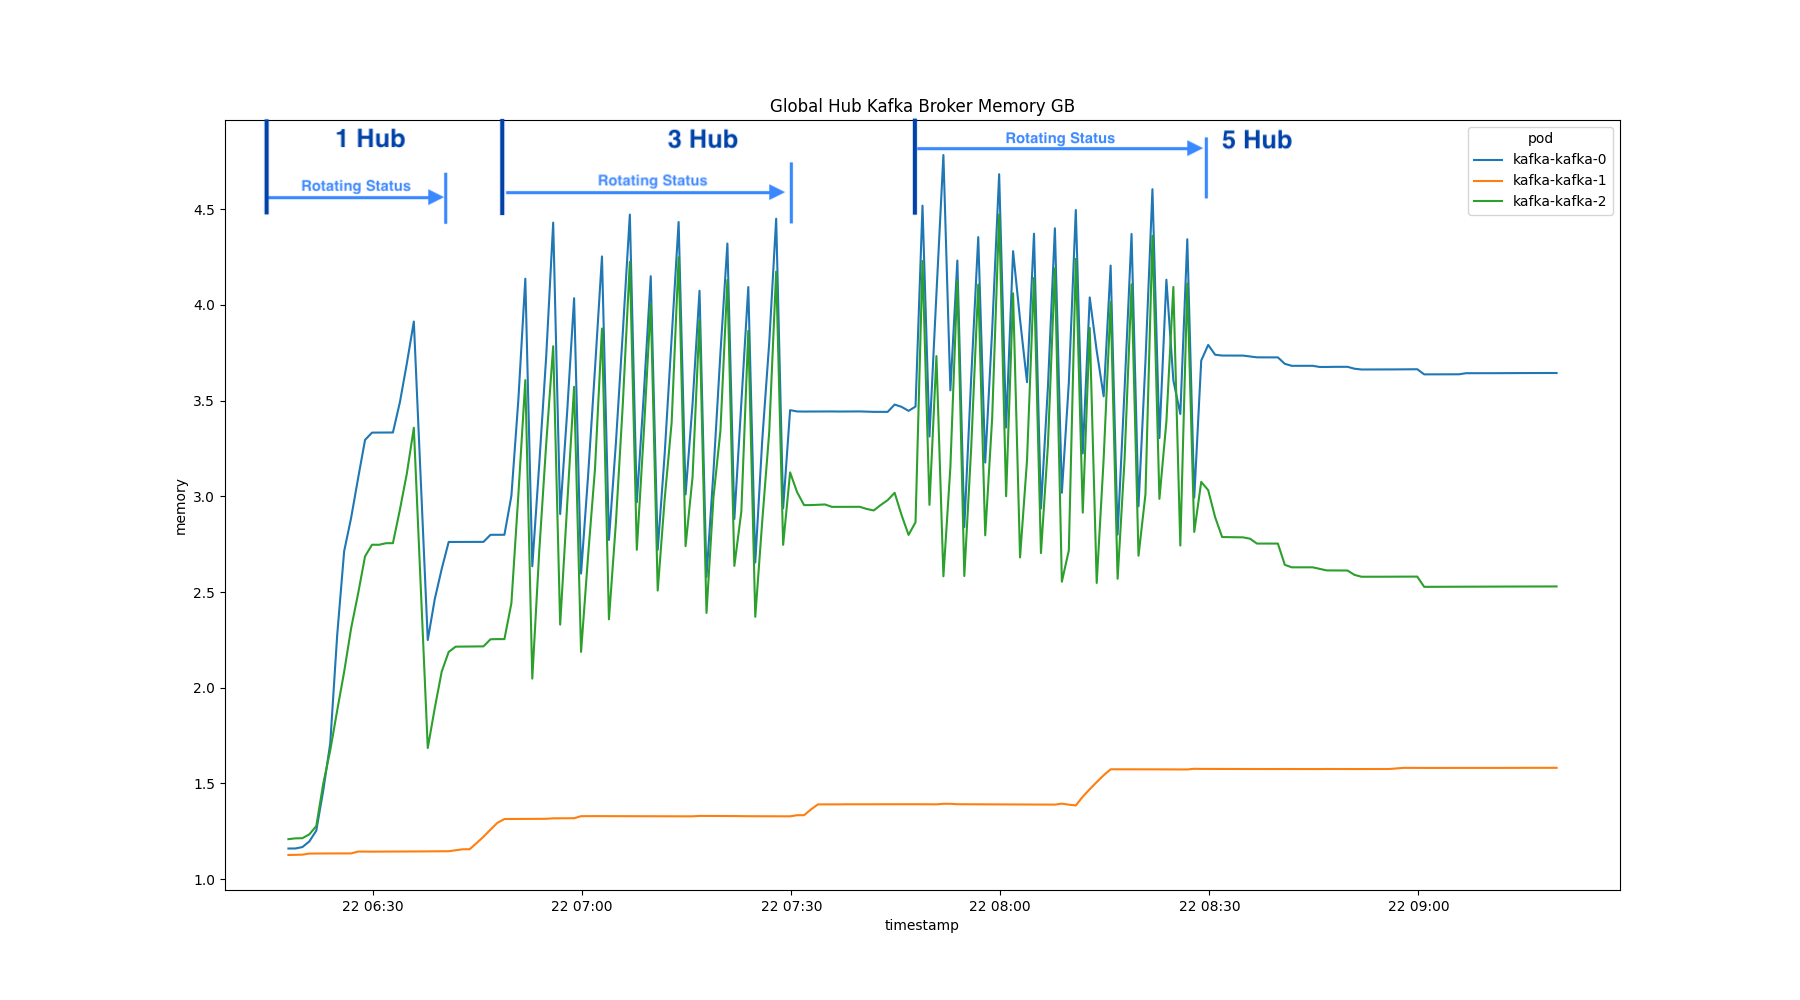
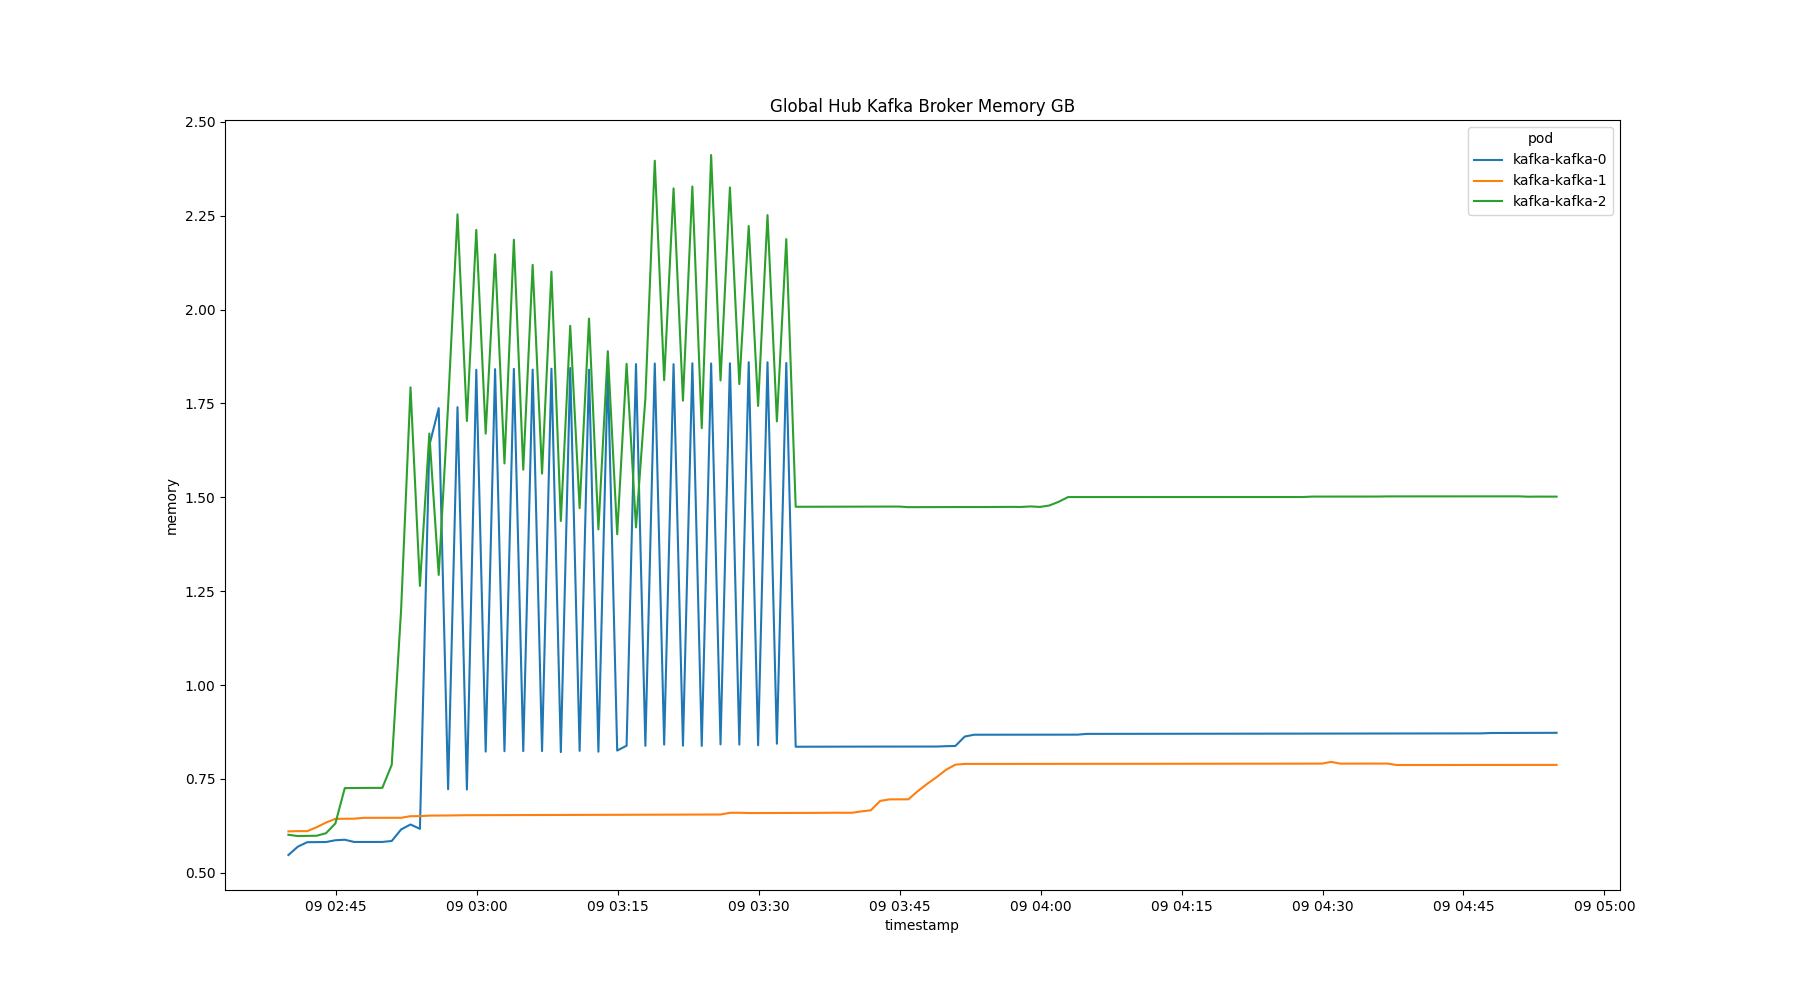
correct the inpector sql

diff --git a/doc/simulation/inspector/src/counter.py b/doc/simulation/inspector/src/counter.py
@@ -20,7 +20,32 @@ output_path = os.path.join(os.path.dirname(script_path), "../output")
 if not os.path.exists(output_path):
     os.makedirs(output_path)
 
-def record_initial(cur, override):
+def get_conn():
+    v1 = client.CoreV1Api()
+    # secret = v1.read_namespaced_secret(name="postgres-pguser-postgres", namespace=global_hub_namespace)
+    secret = v1.read_namespaced_secret(name="multicluster-global-hub-postgres", namespace=global_hub_namespace)
+    postgres_dict = {key: base64.b64decode(val).decode('utf-8') for key, val in secret.data.items()}
+    print(postgres_dict)
+    
+    # need to expose the external host: 
+    # kubectl patch postgrescluster postgres -p '{"spec":{"service":{"type":"LoadBalancer"}}}'  --type merge
+    service = v1.read_namespaced_service(name="multicluster-global-hub-postgres-lb", namespace=global_hub_namespace)
+    external_host = service.status.load_balancer.ingress[0].hostname
+    
+    # Create connection to postgres
+    connection = psycopg2.connect(host=external_host,
+                      port=5432,
+                      user=postgres_dict["database-user"],
+                      password=postgres_dict["database-password"],
+                      dbname=postgres_dict["database-name"])
+    connection.autocommit = True  # Ensure data is added to the database immediately after write commands
+    # cur = connection.cursor()
+    return connection
+
+def record_initial(override):
+    connection = get_conn()
+    cur = connection.cursor()
+
     initial_sql='''
     SELECT TO_CHAR(NOW(), 'YYYY-MM-DD HH24:MI:SS') as time, table_name, COUNT(1) AS count
     FROM (
@@ -34,7 +59,13 @@ def record_initial(cur, override):
     '''
     withHeader=True
     while True:
-      cur.execute(initial_sql)
+      try:
+        cur.execute(initial_sql)
+      except ValueError:
+        print("Invalid operation.", ValueError)
+        connection = get_conn()
+        cur = connection.cursor()
+      
       df = pd.DataFrame([
         {'time': datetime.now(pytz.utc).strftime("%Y-%m-%d %H:%M:%S"), 'compliance': 0, 'event': 0, 'cluster': 0},
       ])
@@ -50,7 +81,10 @@ def record_initial(cur, override):
         
       time.sleep(10)
 
-def record_compliance(cur, override):
+def record_compliance(override):
+    connection = get_conn()
+    cur = connection.cursor()
+    
     compliance_sql='''
     SELECT TO_CHAR(NOW(), 'YYYY-MM-DD HH24:MI:SS') as time, compliance as status, COUNT(1) as count
     FROM local_status.compliance
@@ -58,7 +92,13 @@ def record_compliance(cur, override):
     '''
     withHeader=True
     while True:
-      cur.execute(compliance_sql)
+      try:
+        cur.execute(compliance_sql)
+      except ValueError:
+        print("Invalid operation.", ValueError)
+        connection = get_conn()
+        cur = connection.cursor()
+      # cur.execute(compliance_sql)
       df = pd.DataFrame([
         {'time': datetime.now(pytz.utc).strftime("%Y-%m-%d %H:%M:%S"), 'compliant': 0, 'non_compliant': 0},
       ])
@@ -73,6 +113,7 @@ def record_compliance(cur, override):
         df.to_csv(output_path + "/count-compliance.csv", mode='a', header=False, index=False)
       time.sleep(60)
 
+  
 def main():
     now = datetime.now(pytz.utc)
     print(Back.LIGHTYELLOW_EX+"")
@@ -87,28 +128,10 @@ def main():
     
     config.load_kube_config()
     
-    v1 = client.CoreV1Api()
-    
     try:
       
-      secret = v1.read_namespaced_secret(name="postgres-pguser-postgres", namespace=global_hub_namespace)
-      postgres_dict = {key: base64.b64decode(val).decode('utf-8') for key, val in secret.data.items()}
-      
-      # need to expose the external host: 
-      # kubectl patch postgrescluster postgres -p '{"spec":{"service":{"type":"LoadBalancer"}}}'  --type merge
-      service = v1.read_namespaced_service(name="postgres-ha", namespace=global_hub_namespace)
-      external_host = service.status.load_balancer.ingress[0].hostname
-      
-      # Create connection to postgres
-      connection = psycopg2.connect(host=external_host,
-                        port=postgres_dict["port"],
-                        user=postgres_dict["user"],
-                        password=postgres_dict["password"],
-                        dbname=postgres_dict["dbname"])
-      connection.autocommit = True  # Ensure data is added to the database immediately after write commands
-      cur = connection.cursor()
-      thread1 = threading.Thread(target=record_initial, args=(cur, override))
-      thread2 = threading.Thread(target=record_compliance, args=(cur, override))
+      thread1 = threading.Thread(target=record_initial, args=(override,))
+      thread2 = threading.Thread(target=record_compliance, args=(override,))
 
       thread1.start()
       thread2.start()

diff --git a/doc/simulation/inspector/src/memory_usage.py b/doc/simulation/inspector/src/memory_usage.py
@@ -212,9 +212,11 @@ def global_hub_postgres_memory_usage(pc, start_time, end_time, step):
     
     try:
         query = '''
-          sum(
-            container_memory_usage_bytes{namespace="multicluster-global-hub", pod=~"postgres-pgha.*"}
-          ) by (pod) / (1024*1024*1024)
+        sum(
+            container_memory_working_set_bytes{job="kubelet", metrics_path="/metrics/cadvisor", cluster="", namespace="multicluster-global-hub", container!="", image!="", pod=~"multicluster-global-hub-postgres-.*"}
+          * on(pod)
+            group_left(workload, workload_type) namespace_workload_pod:kube_pod_owner:relabel{cluster="", namespace="multicluster-global-hub", workload_type="statefulset"}
+        ) by (pod) / (1024 * 1024 * 1024)
         '''
         global_hub_trend = pc.custom_query_range(
             query=query,
@@ -250,9 +252,7 @@ def global_hub_kafka_memory_usage(pc, start_time, end_time, step):
     
     try:
         query = '''
-          sum(
-            container_memory_usage_bytes{namespace="multicluster-global-hub", pod=~"kafka-kafka-.*"}
-          ) by (pod) / (1024*1024*1024)
+        sum(container_memory_working_set_bytes{job="kubelet", metrics_path="/metrics/cadvisor", cluster="", namespace="multicluster-global-hub", container!="", image!="", pod=~"kafka-kafka-.*"}) by (pod) / (1024*1024*1024)
         '''
         global_hub_trend = pc.custom_query_range(
             query=query,
@@ -282,15 +282,13 @@ def global_hub_kafka_memory_usage(pc, start_time, end_time, step):
     print("=============================================")
     
 def global_hub_kafka_zookeeper_memory_usage(pc, start_time, end_time, step):
-    title = "Global Hub Kafka Zookeeper Memory GB"
+    title = "Global Hub Kafka Zookeeper Memory MB"
     file = "global-hub-kafka-zookeeper-memory-usage"
     print(title)
     
     try:
         query = '''
-          sum(
-            container_memory_usage_bytes{namespace="multicluster-global-hub", pod=~"kafka-zookeeper-.*"}
-          ) by (pod) / (1024*1024*1024)
+         sum(container_memory_working_set_bytes{job="kubelet", metrics_path="/metrics/cadvisor", cluster="", namespace="multicluster-global-hub", container!="", image!="", pod=~"kafka-zookeeper-.*"}) by (pod) / (1024*1024)
         '''
         global_hub_trend = pc.custom_query_range(
             query=query,

diff --git a/doc/simulation/inspector/src/cpu_usage.py b/doc/simulation/inspector/src/cpu_usage.py
@@ -230,7 +230,7 @@ def global_hub_postgres(pc, start_time, end_time, step):
     try:
         query = '''
         sum(
-          node_namespace_pod_container:container_cpu_usage_seconds_total:sum_irate{namespace="multicluster-global-hub", pod=~"postgres-pgha.*"}
+          node_namespace_pod_container:container_cpu_usage_seconds_total:sum_irate{namespace="multicluster-global-hub", pod=~"multicluster-global-hub-postgres.*"}
         ) by (pod)
         '''
         cpu_trend = pc.custom_query_range(
